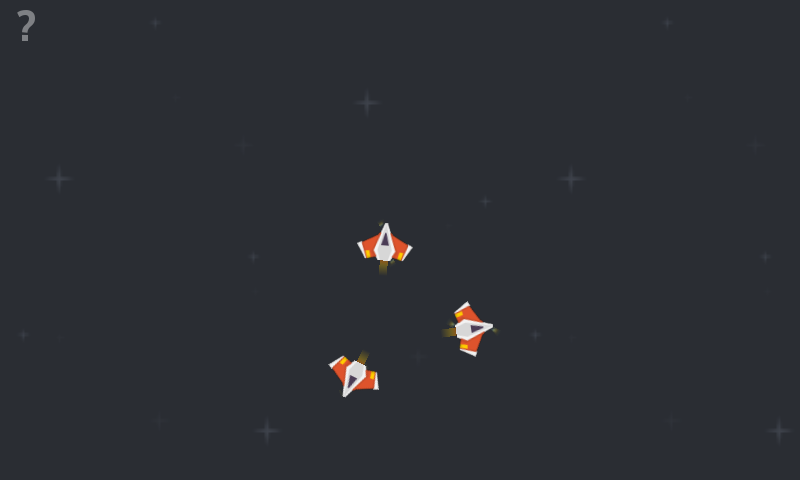
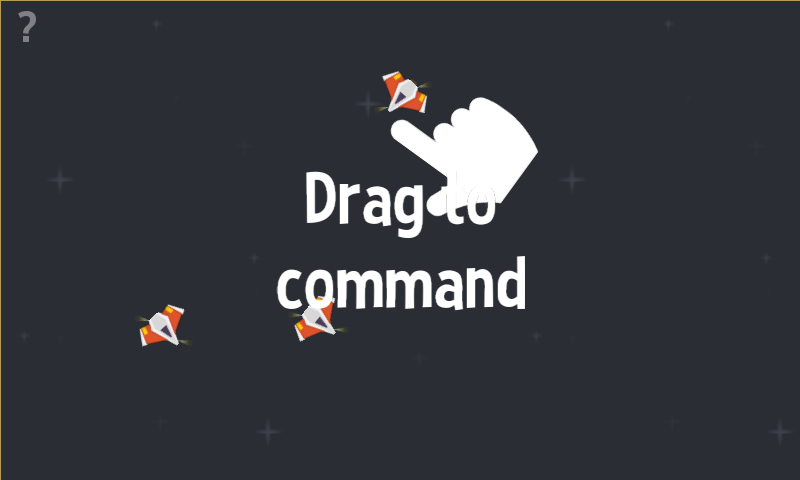
added more promo assets

diff --git a/docs/examples/Thrusties/README.md b/docs/examples/Thrusties/README.md
@@ -11,5 +11,6 @@ You can touch / click and drag to set a target for little spaceships to fly to. 
 ## Try It
 @cli_usage
 
-## Screenshot
-![screenshot](images/screenshot.png)
+## Screenshots
+![instructions](images/screenshot.png)
+![action pose](images/screenshot2.png)
